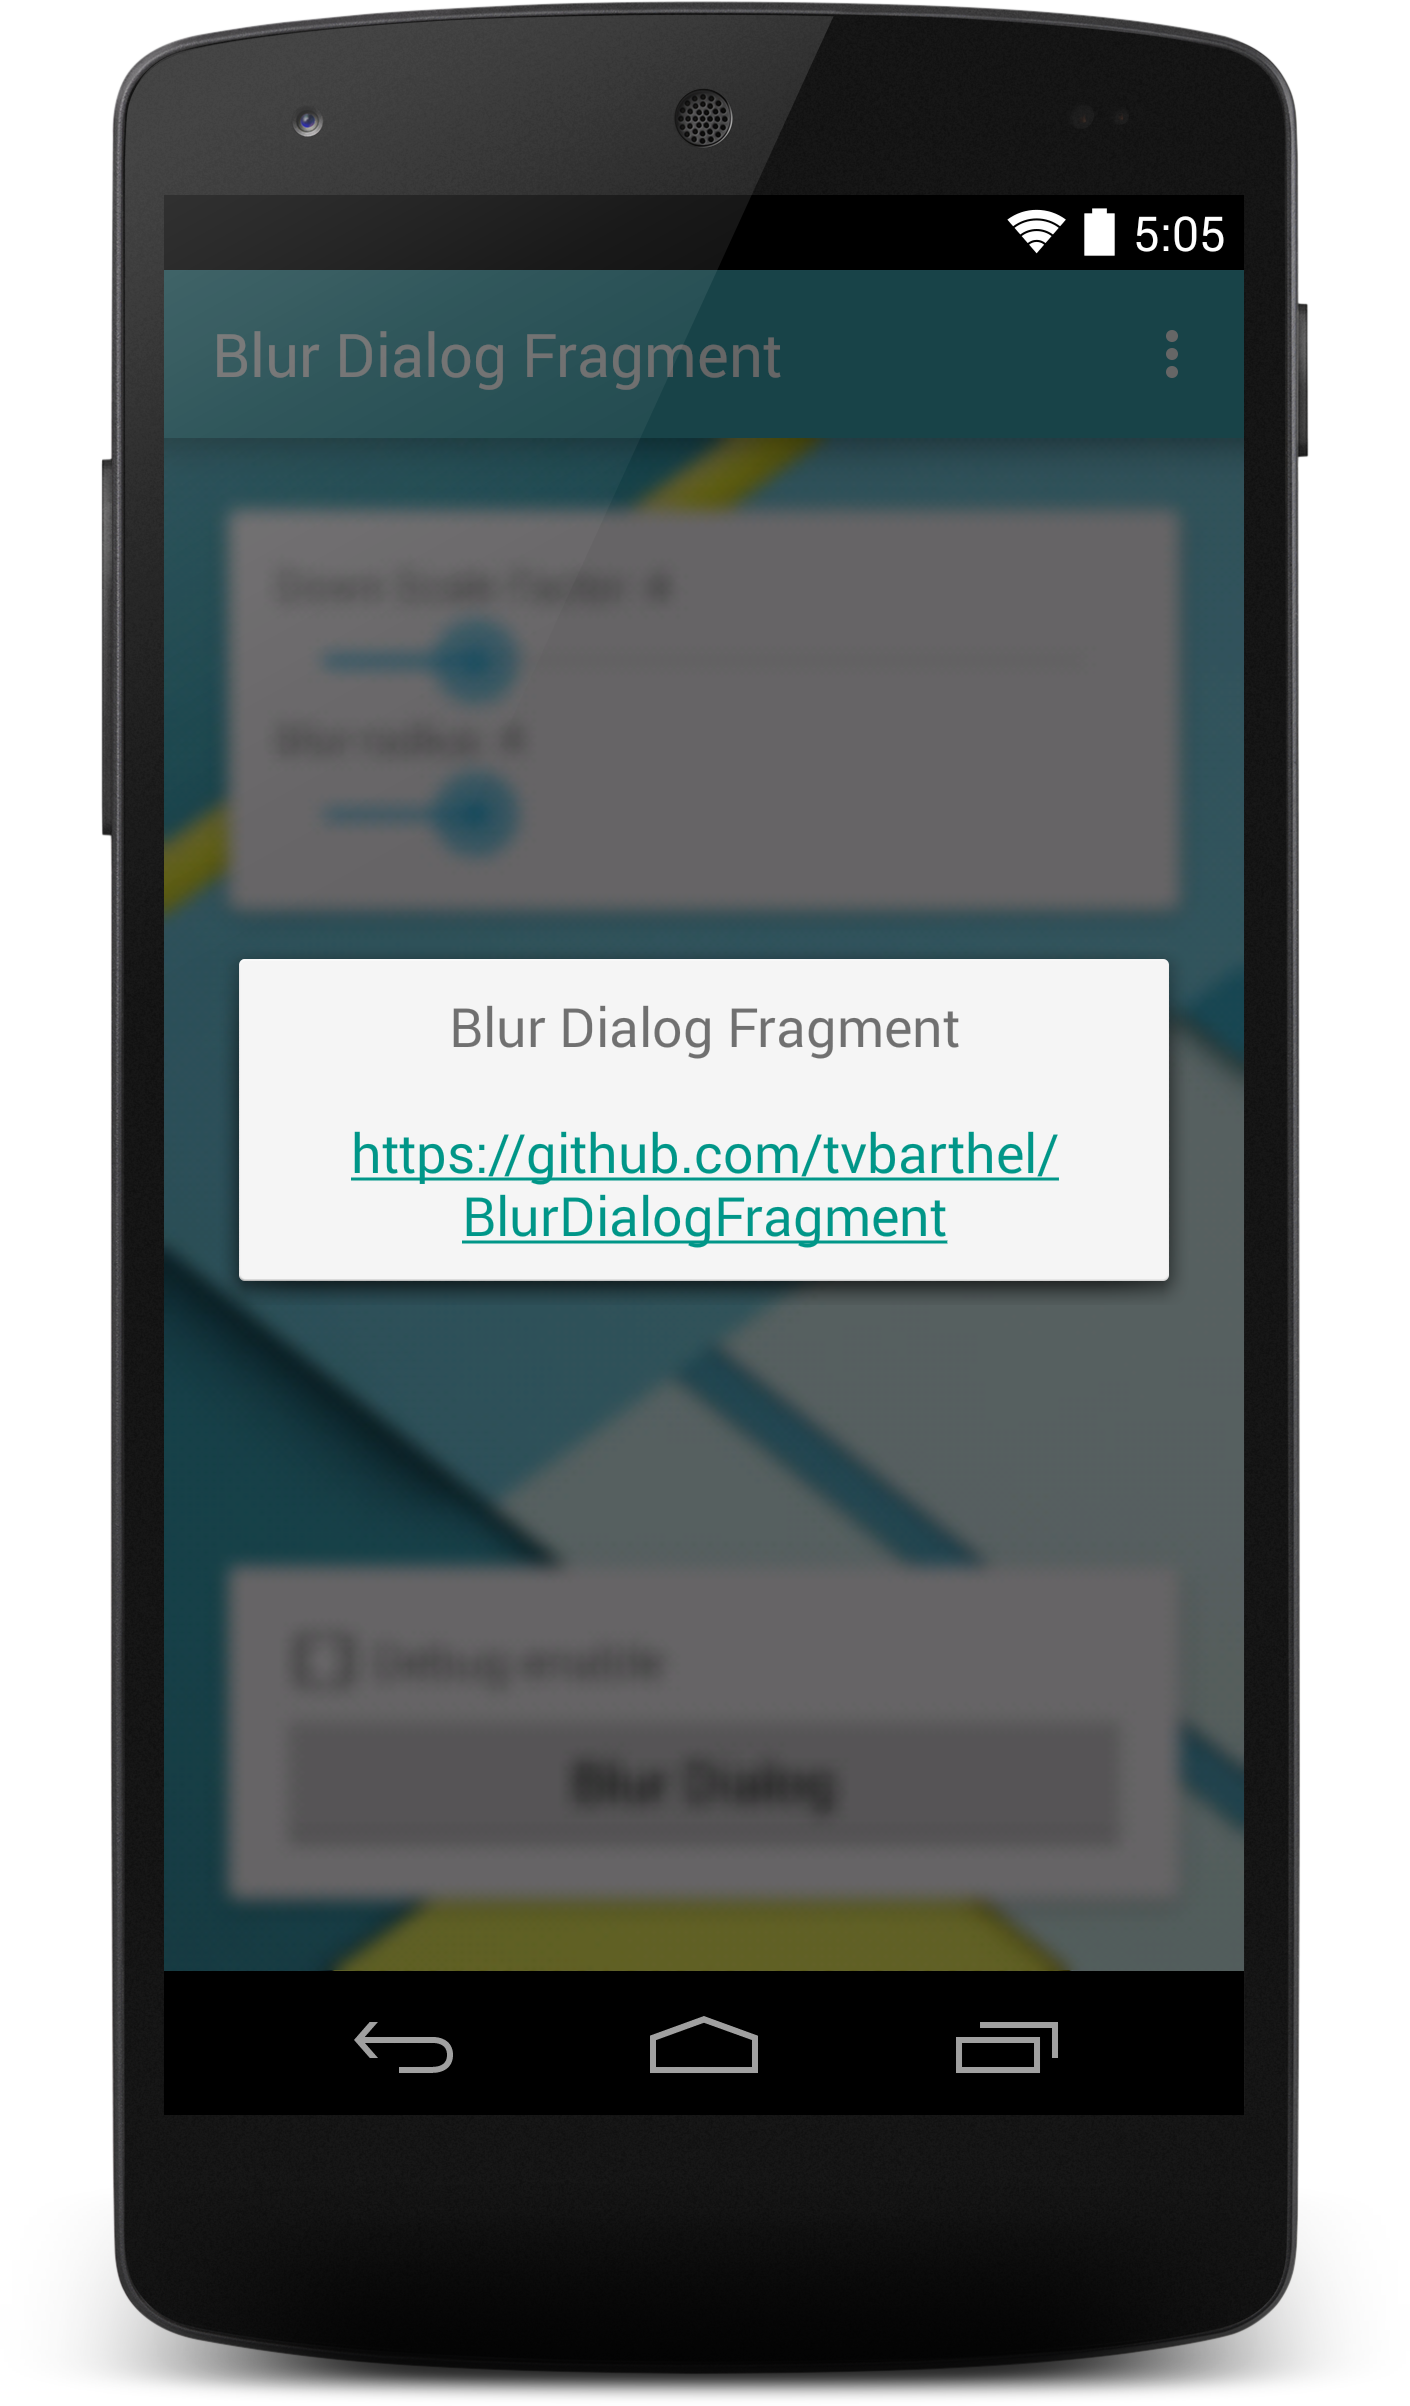
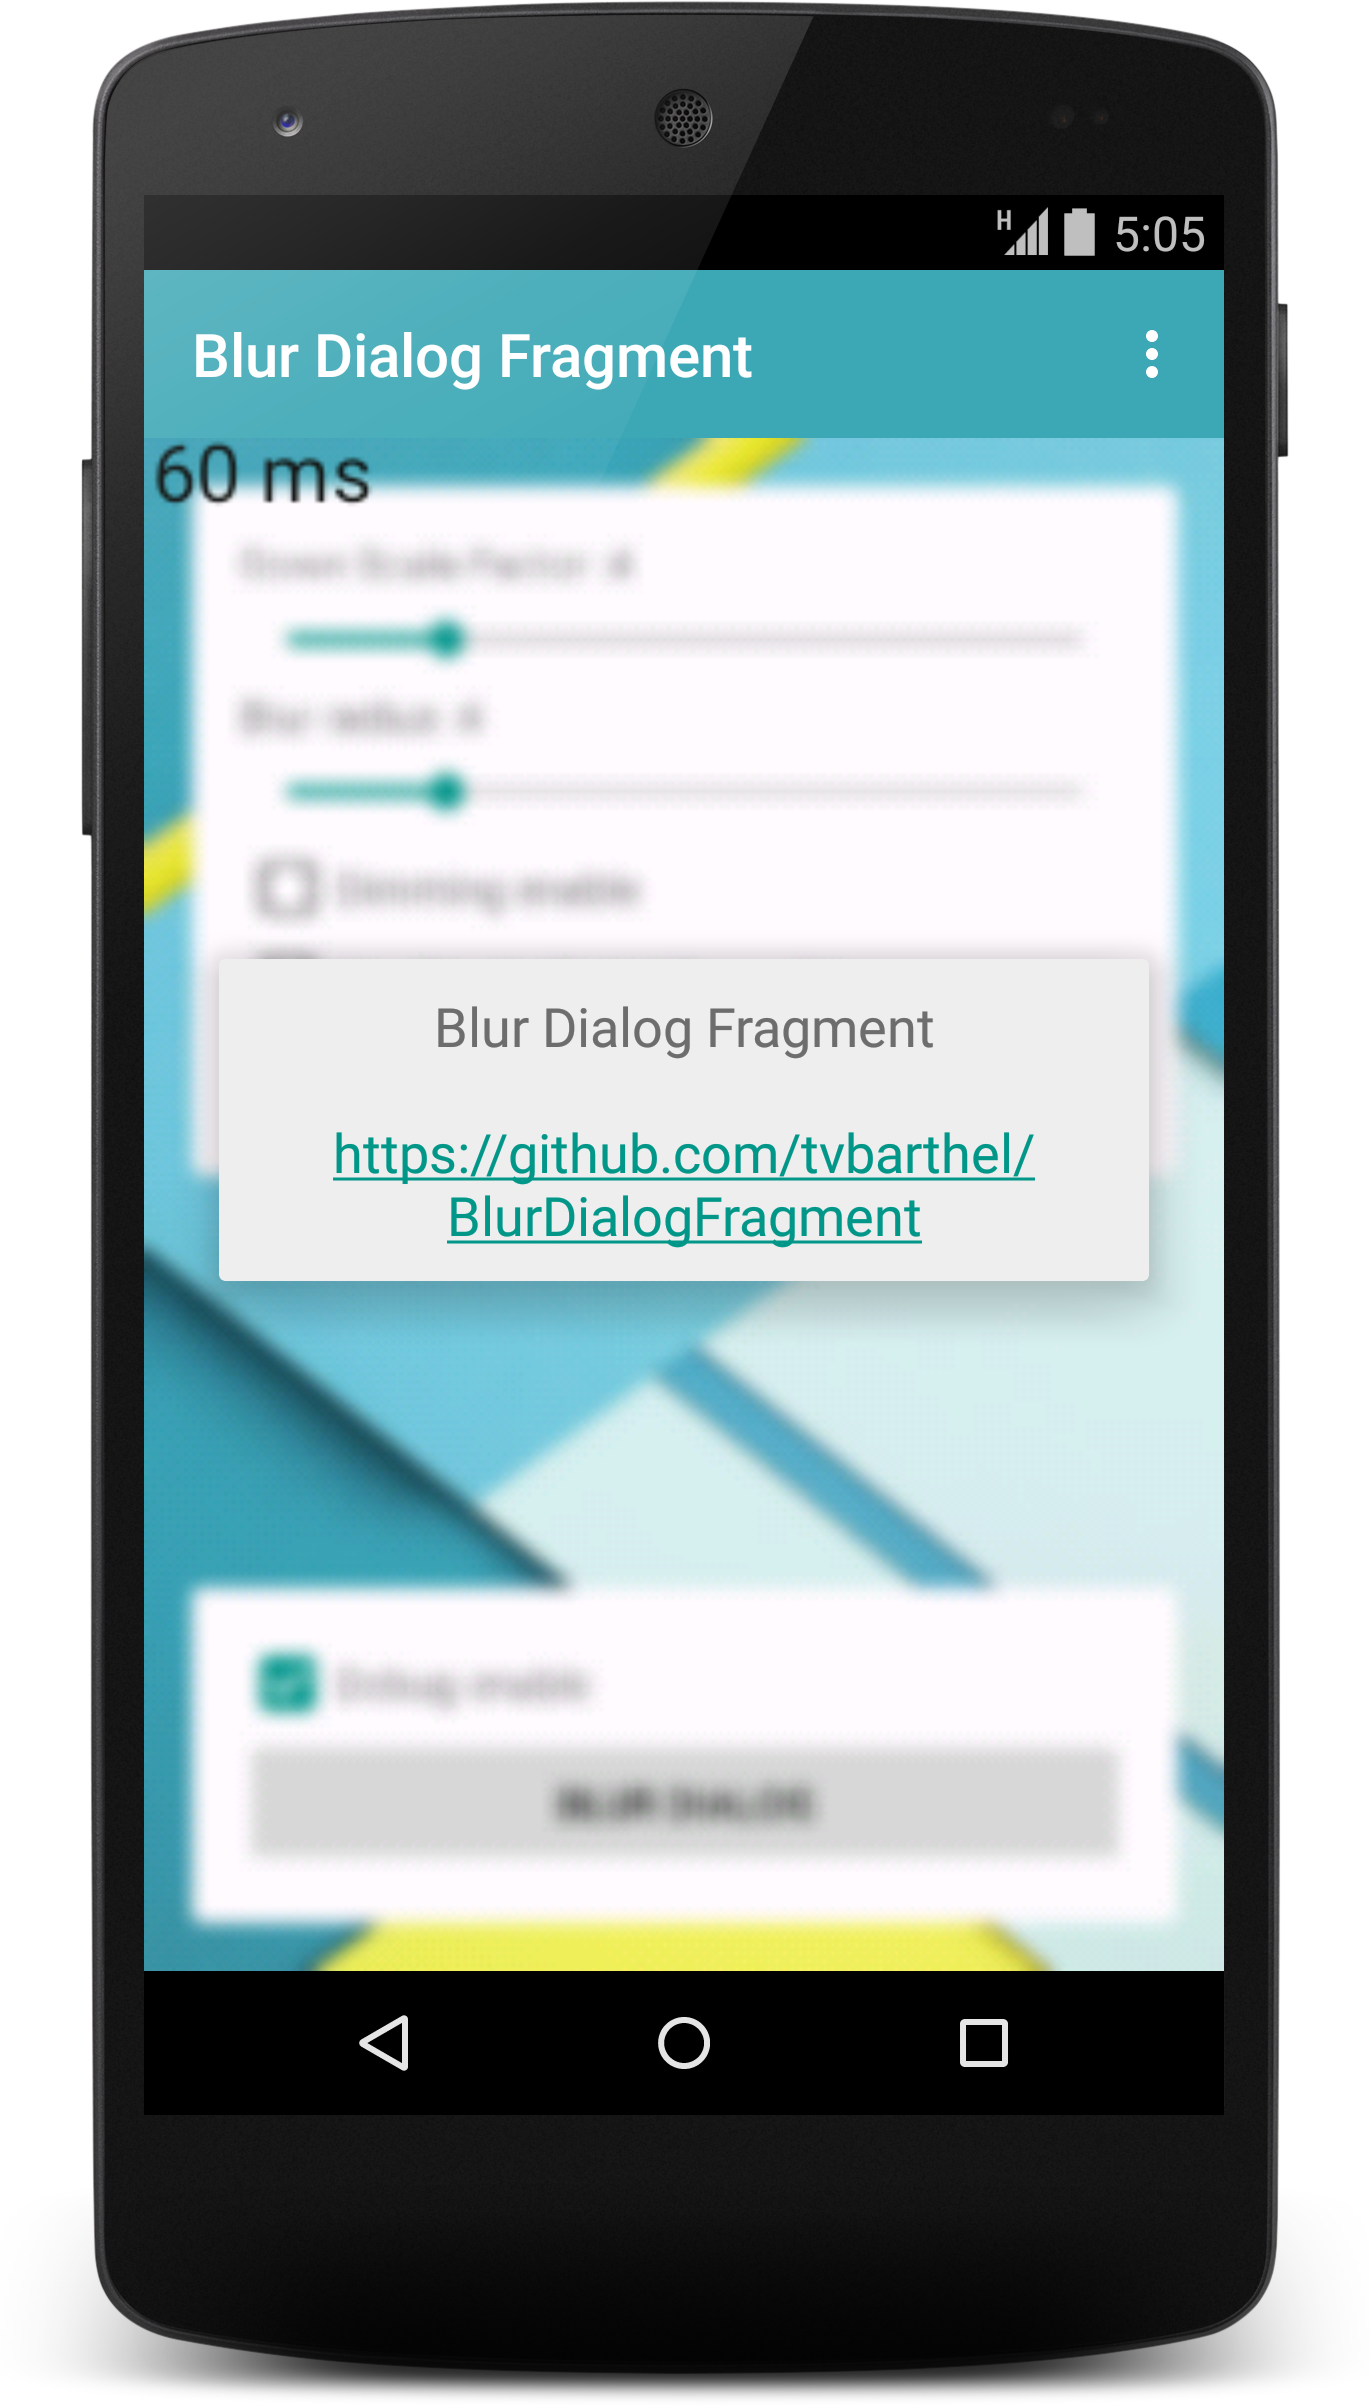
[Realease] release v1.1.0

diff --git a/README.md b/README.md
@@ -106,6 +106,13 @@ public class SampleDialogFragment extends BlurDialogFragment {
         // Disabled by default.
         return true;
     }
+
+    @Override
+    protected boolean isRenderScriptEnable() {
+        // Enable or disable the use of RenderScript for blurring effect
+        // Disabled by default.
+        return true;
+    }
     
     @Override
     protected boolean isDebugEnable() {
@@ -144,6 +151,11 @@ Default values are set to :
      * Default action bar blurred policy.
      */
     static final boolean DEFAULT_ACTION_BAR_BLUR = false;
+
+    /**
+     * Default use of RenderScript.
+     */
+    static final boolean DEFAULT_USE_RENDERSCRIPT = false;
     
 ```
 
@@ -174,6 +186,7 @@ public class SampleDialogFragment extends MyCustomDialogFragment {
         mBlurEngine.setDownScaleFactor(8f);
         mBlurEngine.debug(true);
         mBlurEngine.setBlurActionBar(true);
+        mBlurEngine.setUseRenderScript(true);
     }
     
     @Override
@@ -245,10 +258,9 @@ Known bugs
 
 RenderScript or not RenderScript
 =======
-Since ScriptIntrinsicBlur seems to doens't work with RGB_565 Bitmap (used to reduce by half Bitmap allocation) I keep thinking about using RenderScript for applying blur effect.
+Thanks to @amasciul blurring effect can now be achieved using ScriptIntrinsicBlur (v1.1.0).
 
 Find more information on the [memory trace](http://tvbarthel.github.io/blur-dialog-fragment.html) and on the [execution time](http://trickyandroid.com/advanced-blurring-techniques/#comment-1557039595).
-
 
 
 
@@ -258,6 +270,7 @@ TODO
 
 Change logs
 =======
+* 1.1.0 : Allow to use RenderScript (thank to @amasciul).
 * 1.0.0 : Animate blurring effect, support tablet, tweak nav bar offset and reduce memory allocation.
 * 0.1.2 : Fix bottom offset introduce by the navigation bar on Lollipop.
 * 0.1.1 : Fix top offset when using Toolbar.
@@ -298,3 +311,5 @@ Special Thanks to ...
 Pavlo Dudka [https://github.com/paveldudka/](https://github.com/paveldudka/) , for his impressive article on [Advanced blurring techniques](http://trickyandroid.com/advanced-blurring-techniques/).
 
 Vincent Brison [https://github.com/vincentbrison](https://github.com/vincentbrison) , for his early day support.
+
+Alexandre Masciulli [https://github.com/amasciul](https://github.com/amasciul) , for the integration of RenderScript.
